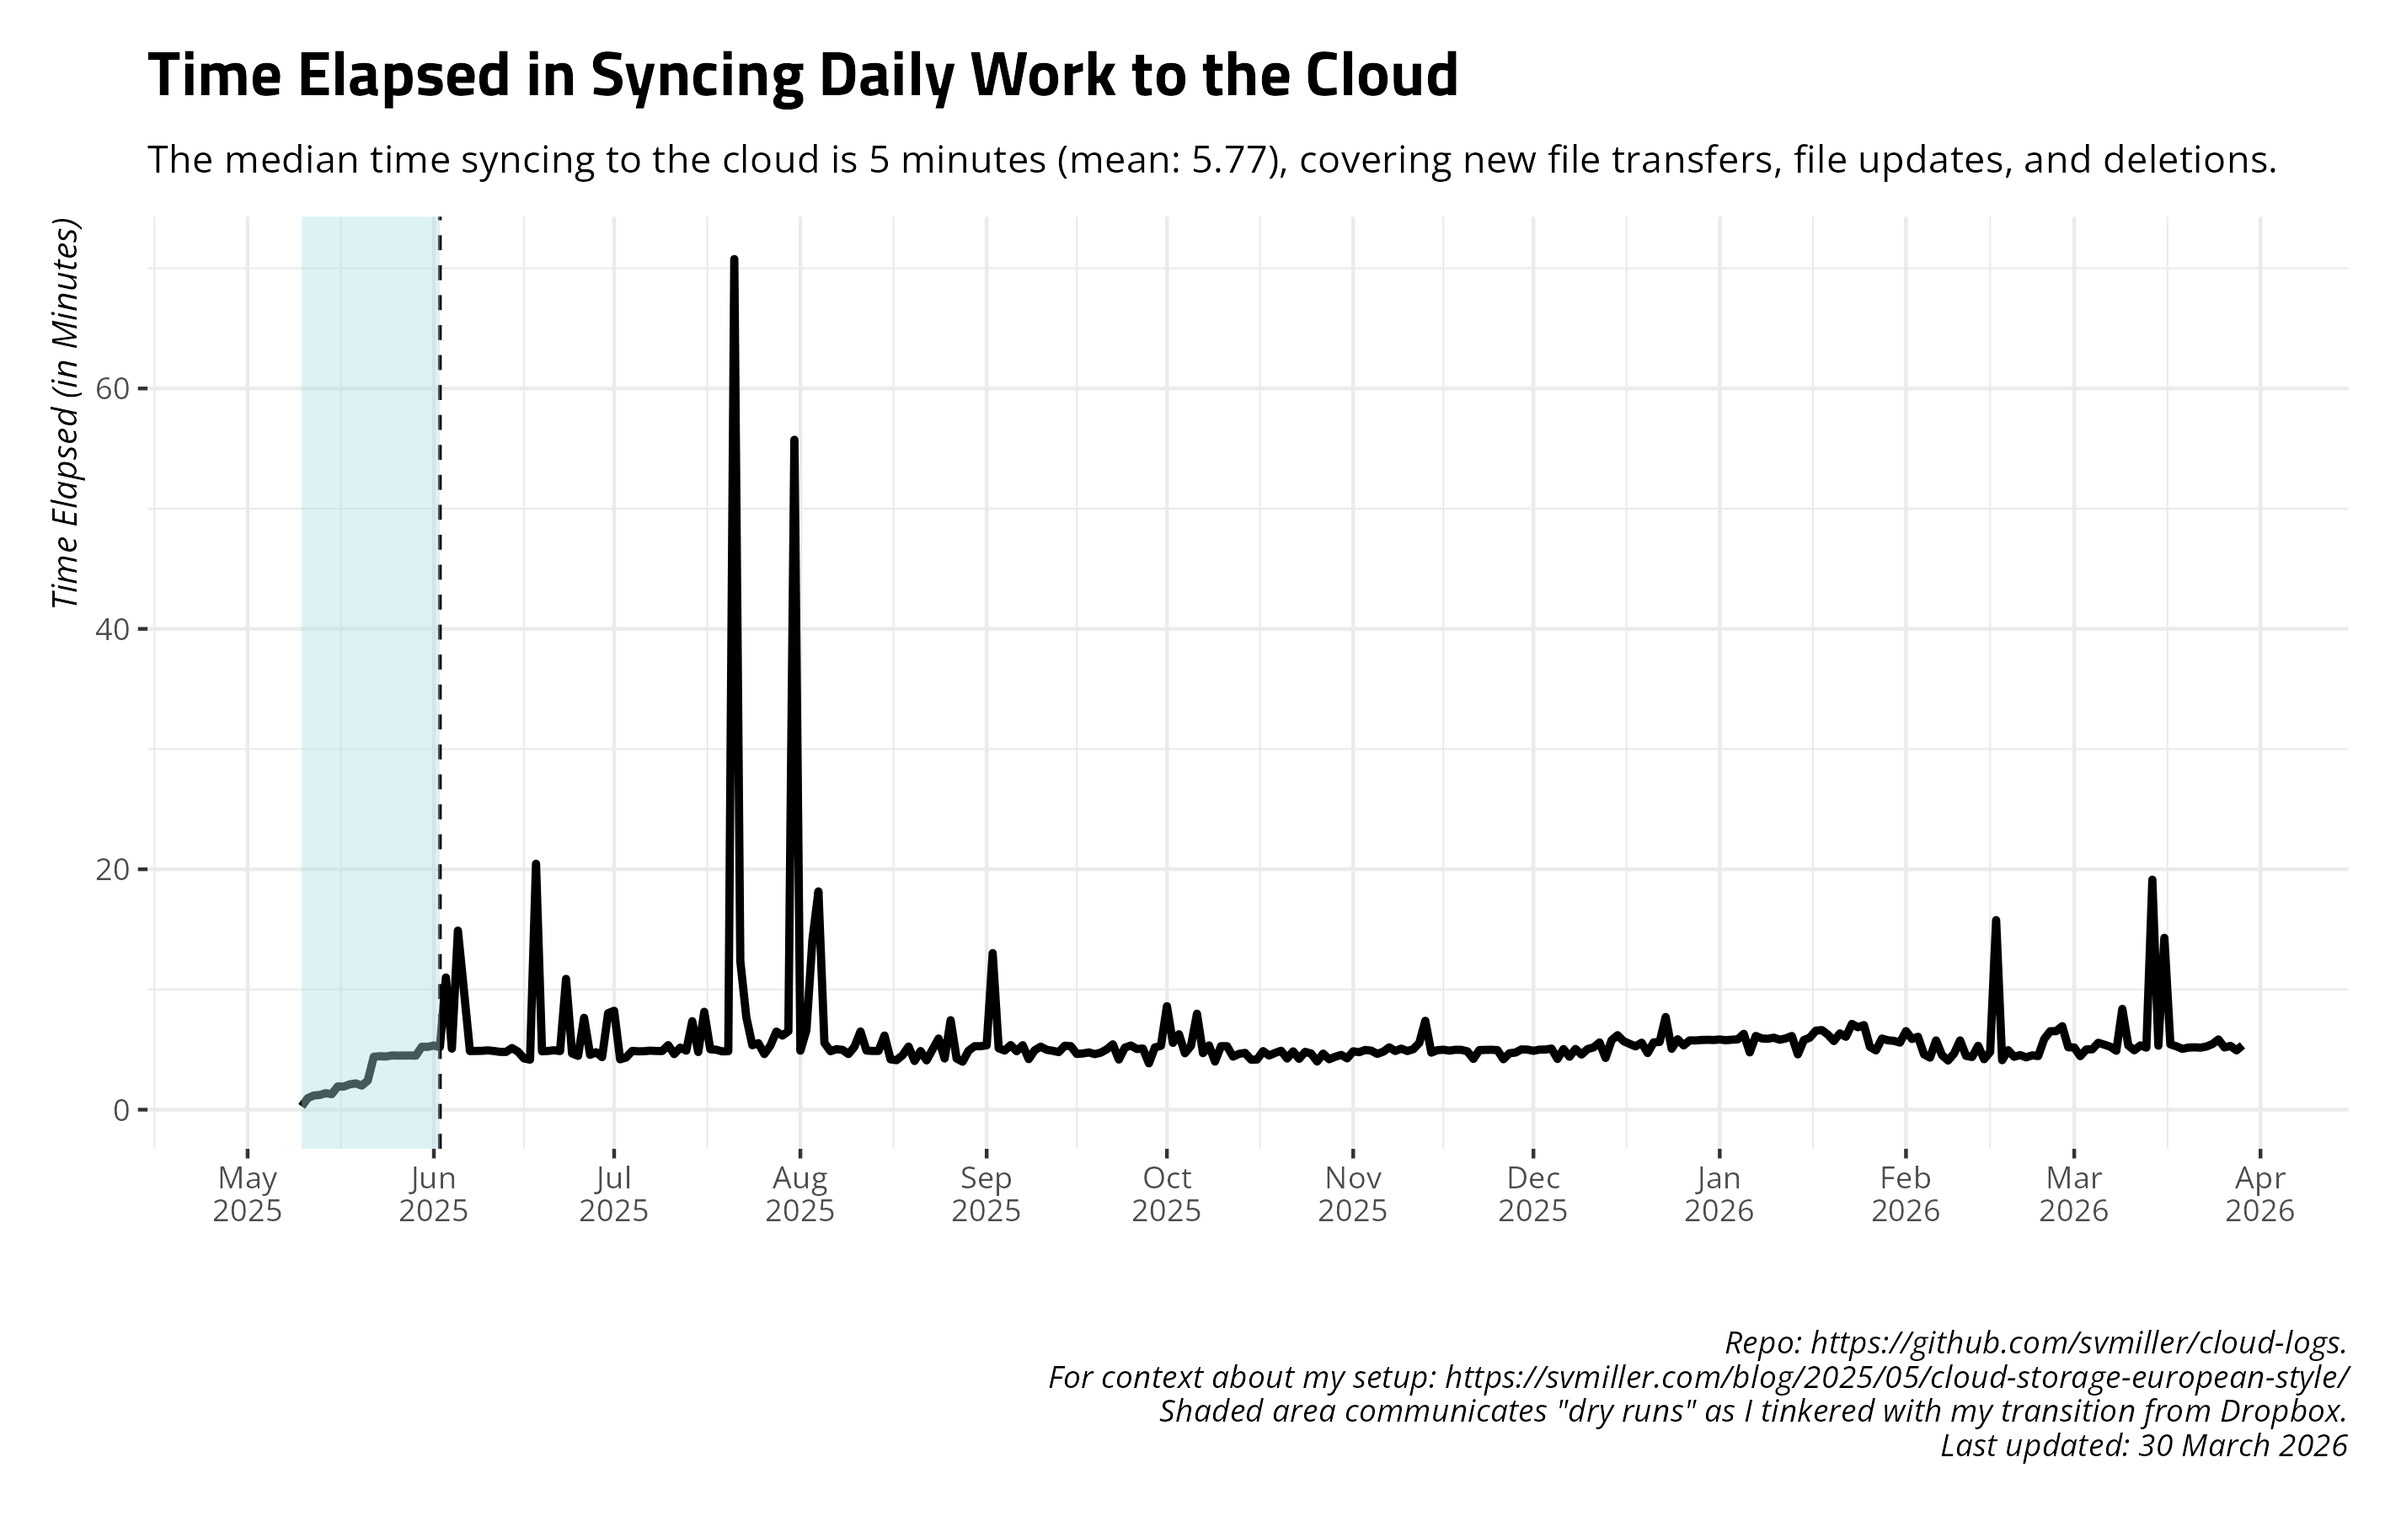
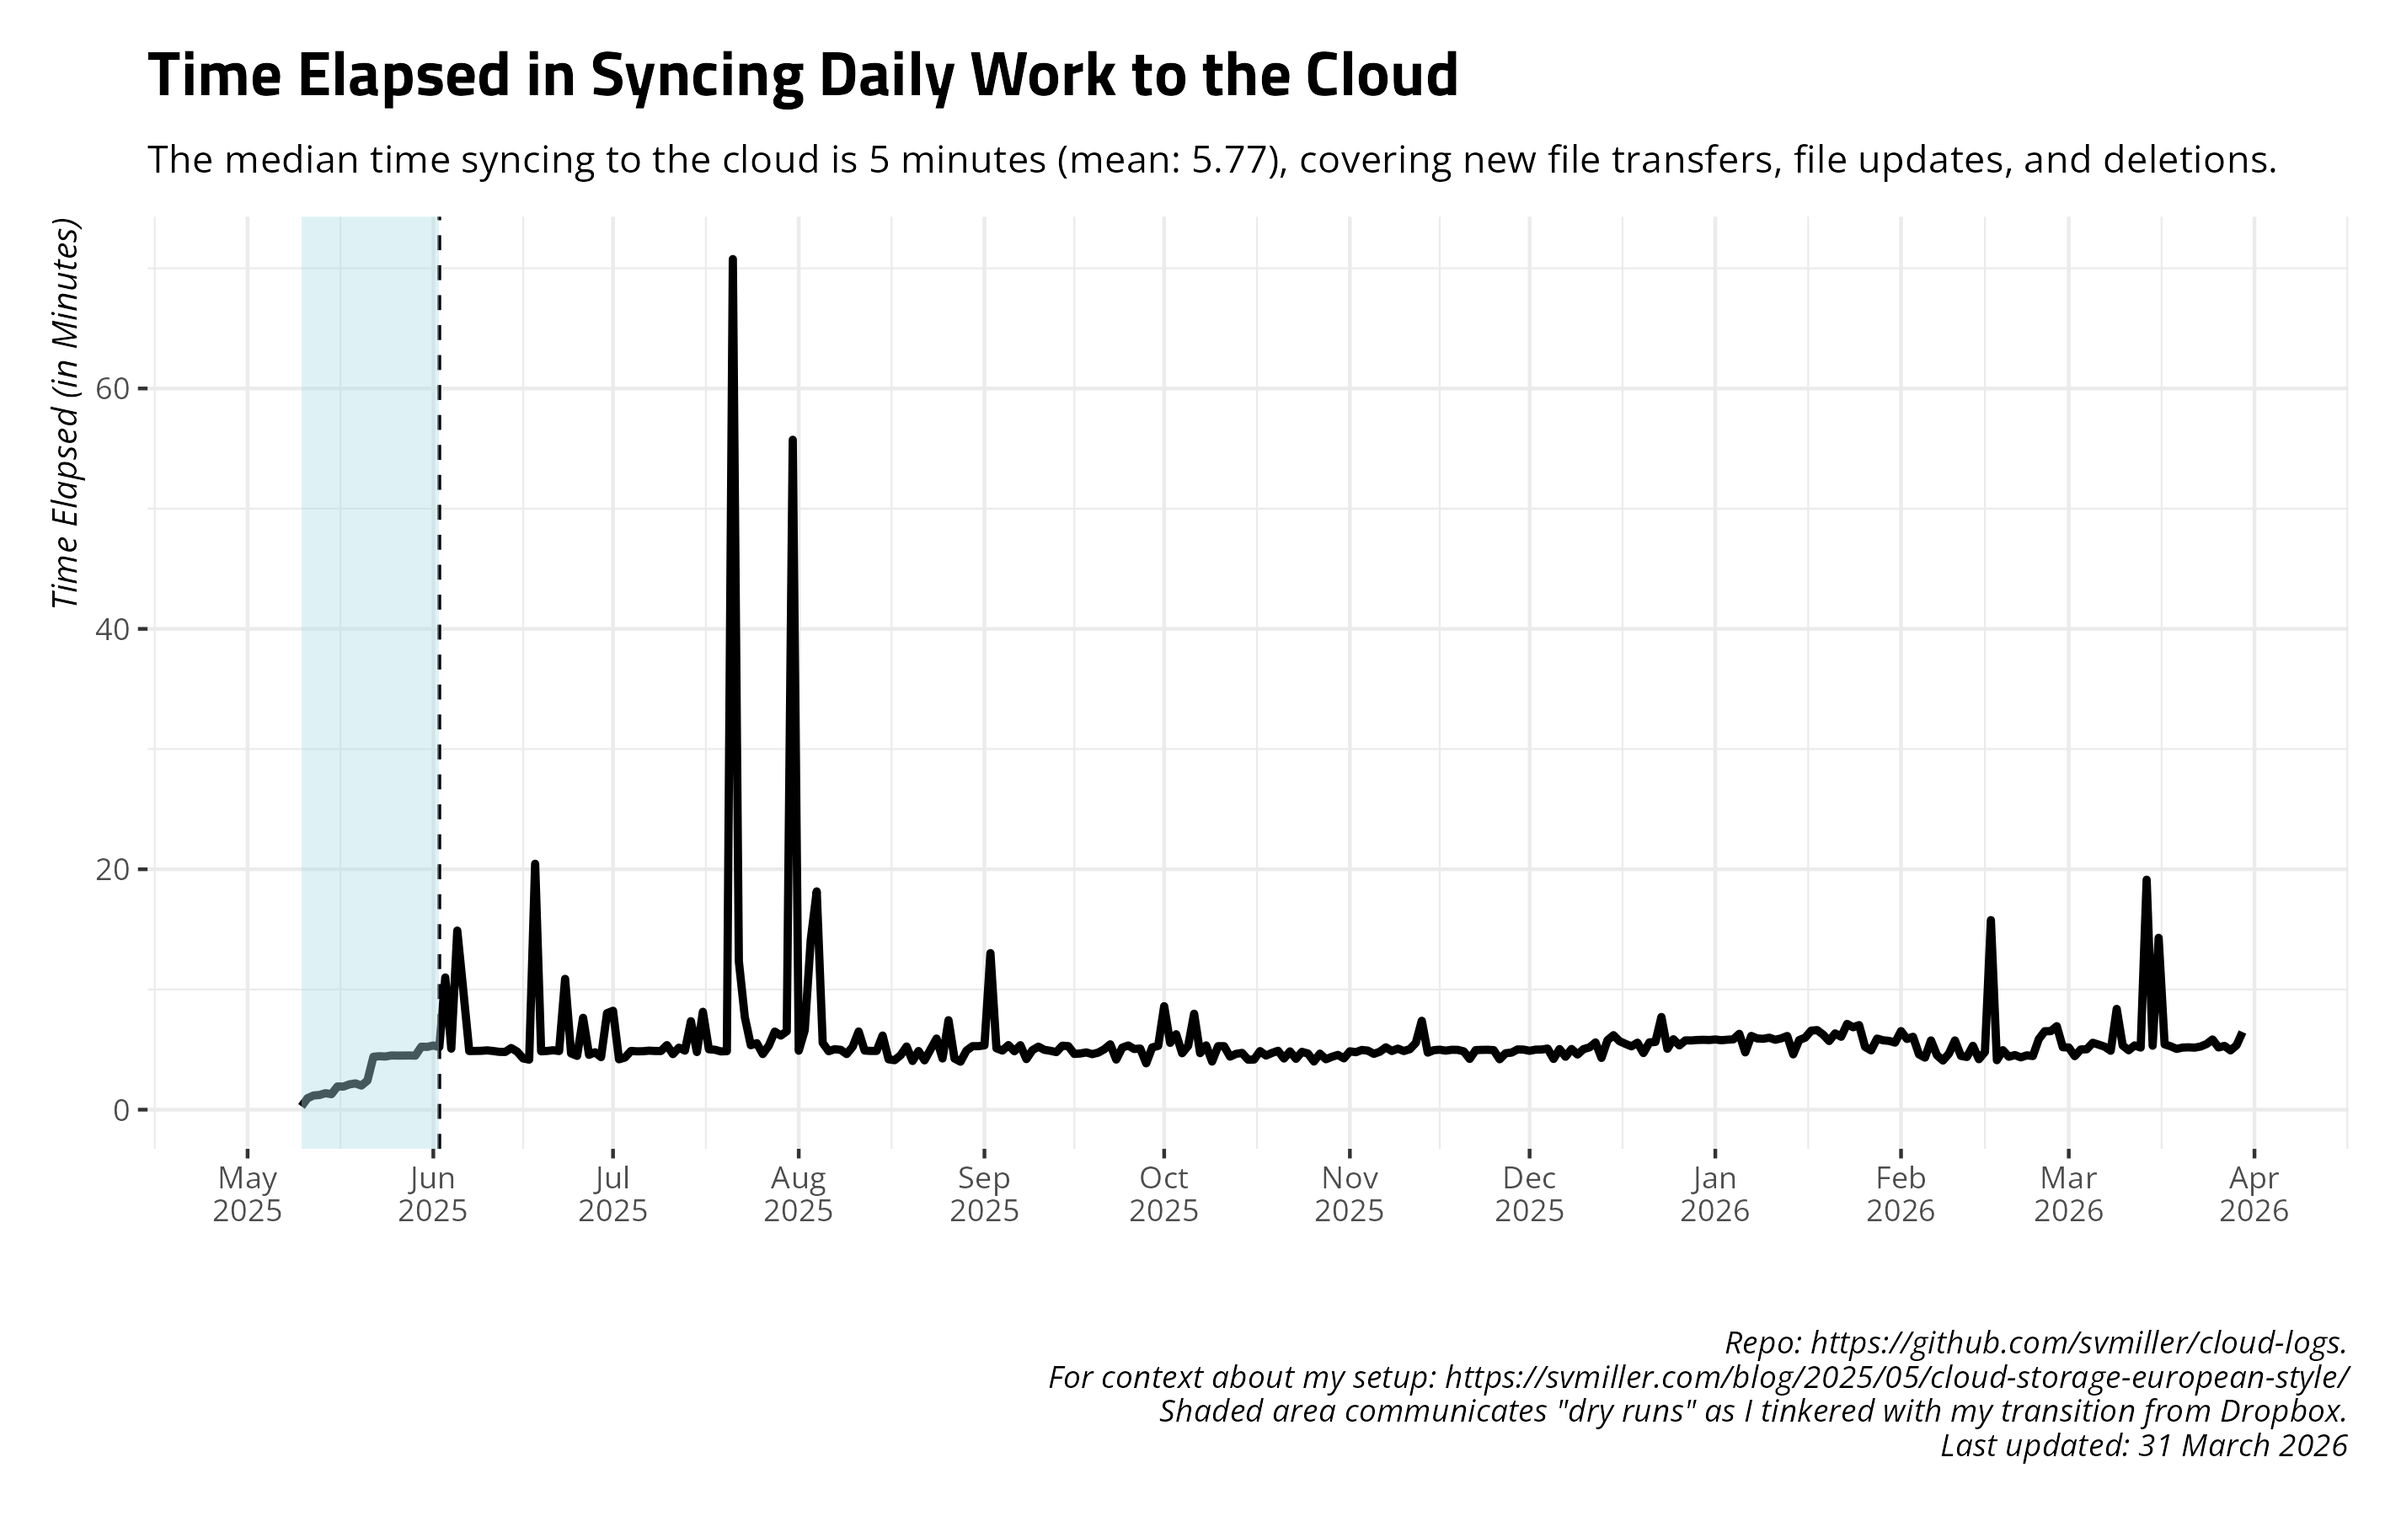
Date: 2026-03-31 09:00:27. Hi mom!

diff --git a/README.md b/README.md
@@ -25,19 +25,19 @@ and uploads to Github.
 ## Summary of Past 14 Days
 
     #> # A tibble: 14 × 4
-    #>    date       ftransfer stransfer   elapsed 
-    #>    <date>         <dbl> <chr>       <chr>   
-    #>  1 2026-03-16       106 15.047 MiB  14m17.7s
-    #>  2 2026-03-17         7 145.749 KiB 5m26.0s 
-    #>  3 2026-03-18         3 30.764 MiB  5m16.3s 
-    #>  4 2026-03-19        70 1.489 MiB   5m3.4s  
-    #>  5 2026-03-20         9 298.045 KiB 5m9.9s  
-    #>  6 2026-03-21         0 <NA>        5m11.1s 
-    #>  7 2026-03-22         4 84.136 KiB  5m9.6s  
-    #>  8 2026-03-23         4 6.955 MiB   5m15.1s 
-    #>  9 2026-03-24       111 1.884 MiB   5m27.6s 
-    #> 10 2026-03-25       389 508.602 MiB 5m50.4s 
-    #> 11 2026-03-26         4 85.605 KiB  5m10.6s 
-    #> 12 2026-03-27        23 10.112 MiB  5m18.2s 
-    #> 13 2026-03-28        24 134.979 KiB 4m55.9s 
-    #> 14 2026-03-29         0 <NA>        5m21.2s
+    #>    date       ftransfer stransfer   elapsed
+    #>    <date>         <dbl> <chr>       <chr>  
+    #>  1 2026-03-17         7 145.749 KiB 5m26.0s
+    #>  2 2026-03-18         3 30.764 MiB  5m16.3s
+    #>  3 2026-03-19        70 1.489 MiB   5m3.4s 
+    #>  4 2026-03-20         9 298.045 KiB 5m9.9s 
+    #>  5 2026-03-21         0 <NA>        5m11.1s
+    #>  6 2026-03-22         4 84.136 KiB  5m9.6s 
+    #>  7 2026-03-23         4 6.955 MiB   5m15.1s
+    #>  8 2026-03-24       111 1.884 MiB   5m27.6s
+    #>  9 2026-03-25       389 508.602 MiB 5m50.4s
+    #> 10 2026-03-26         4 85.605 KiB  5m10.6s
+    #> 11 2026-03-27        23 10.112 MiB  5m18.2s
+    #> 12 2026-03-28        24 134.979 KiB 4m55.9s
+    #> 13 2026-03-29         0 <NA>        5m21.2s
+    #> 14 2026-03-30       872 5.770 GiB   6m27.5s
